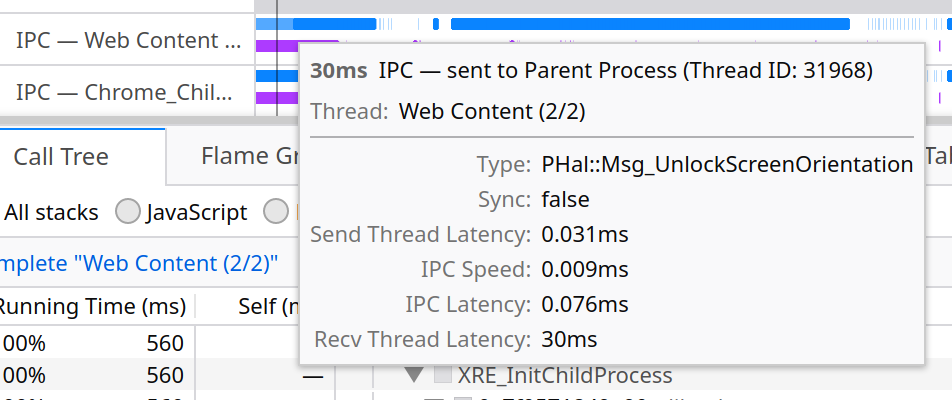
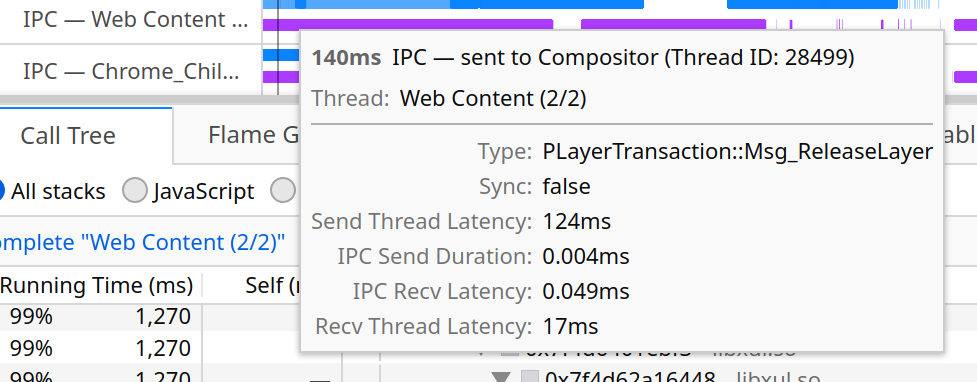
Rename IPC message tooltip labels to be more descriptive
This provides more descriptive labels for durations in IPC messages:
* IPC Speed -> IPC Send Duration
* IPC Latency -> IPC Recv Latency

Changed region(s): [[0.0, 0.0, 1.0, 1.0], [0.4874, 0.4607, 0.6397, 0.5183], [0.3351, 0.9791, 0.396, 1.0]]

diff --git a/src/components/tooltip/Marker.js b/src/components/tooltip/Marker.js
@@ -648,10 +648,10 @@ function getMarkerDetails(
             <TooltipDetail label="Send Thread Latency">
               {_maybeFormatDuration(data.startTime, data.sendStartTime)}
             </TooltipDetail>
-            <TooltipDetail label="IPC Speed">
+            <TooltipDetail label="IPC Send Duration">
               {_maybeFormatDuration(data.sendStartTime, data.sendEndTime)}
             </TooltipDetail>
-            <TooltipDetail label="IPC Latency">
+            <TooltipDetail label="IPC Recv Latency">
               {_maybeFormatDuration(data.sendEndTime, data.recvEndTime)}
             </TooltipDetail>
             <TooltipDetail label="Recv Thread Latency">
